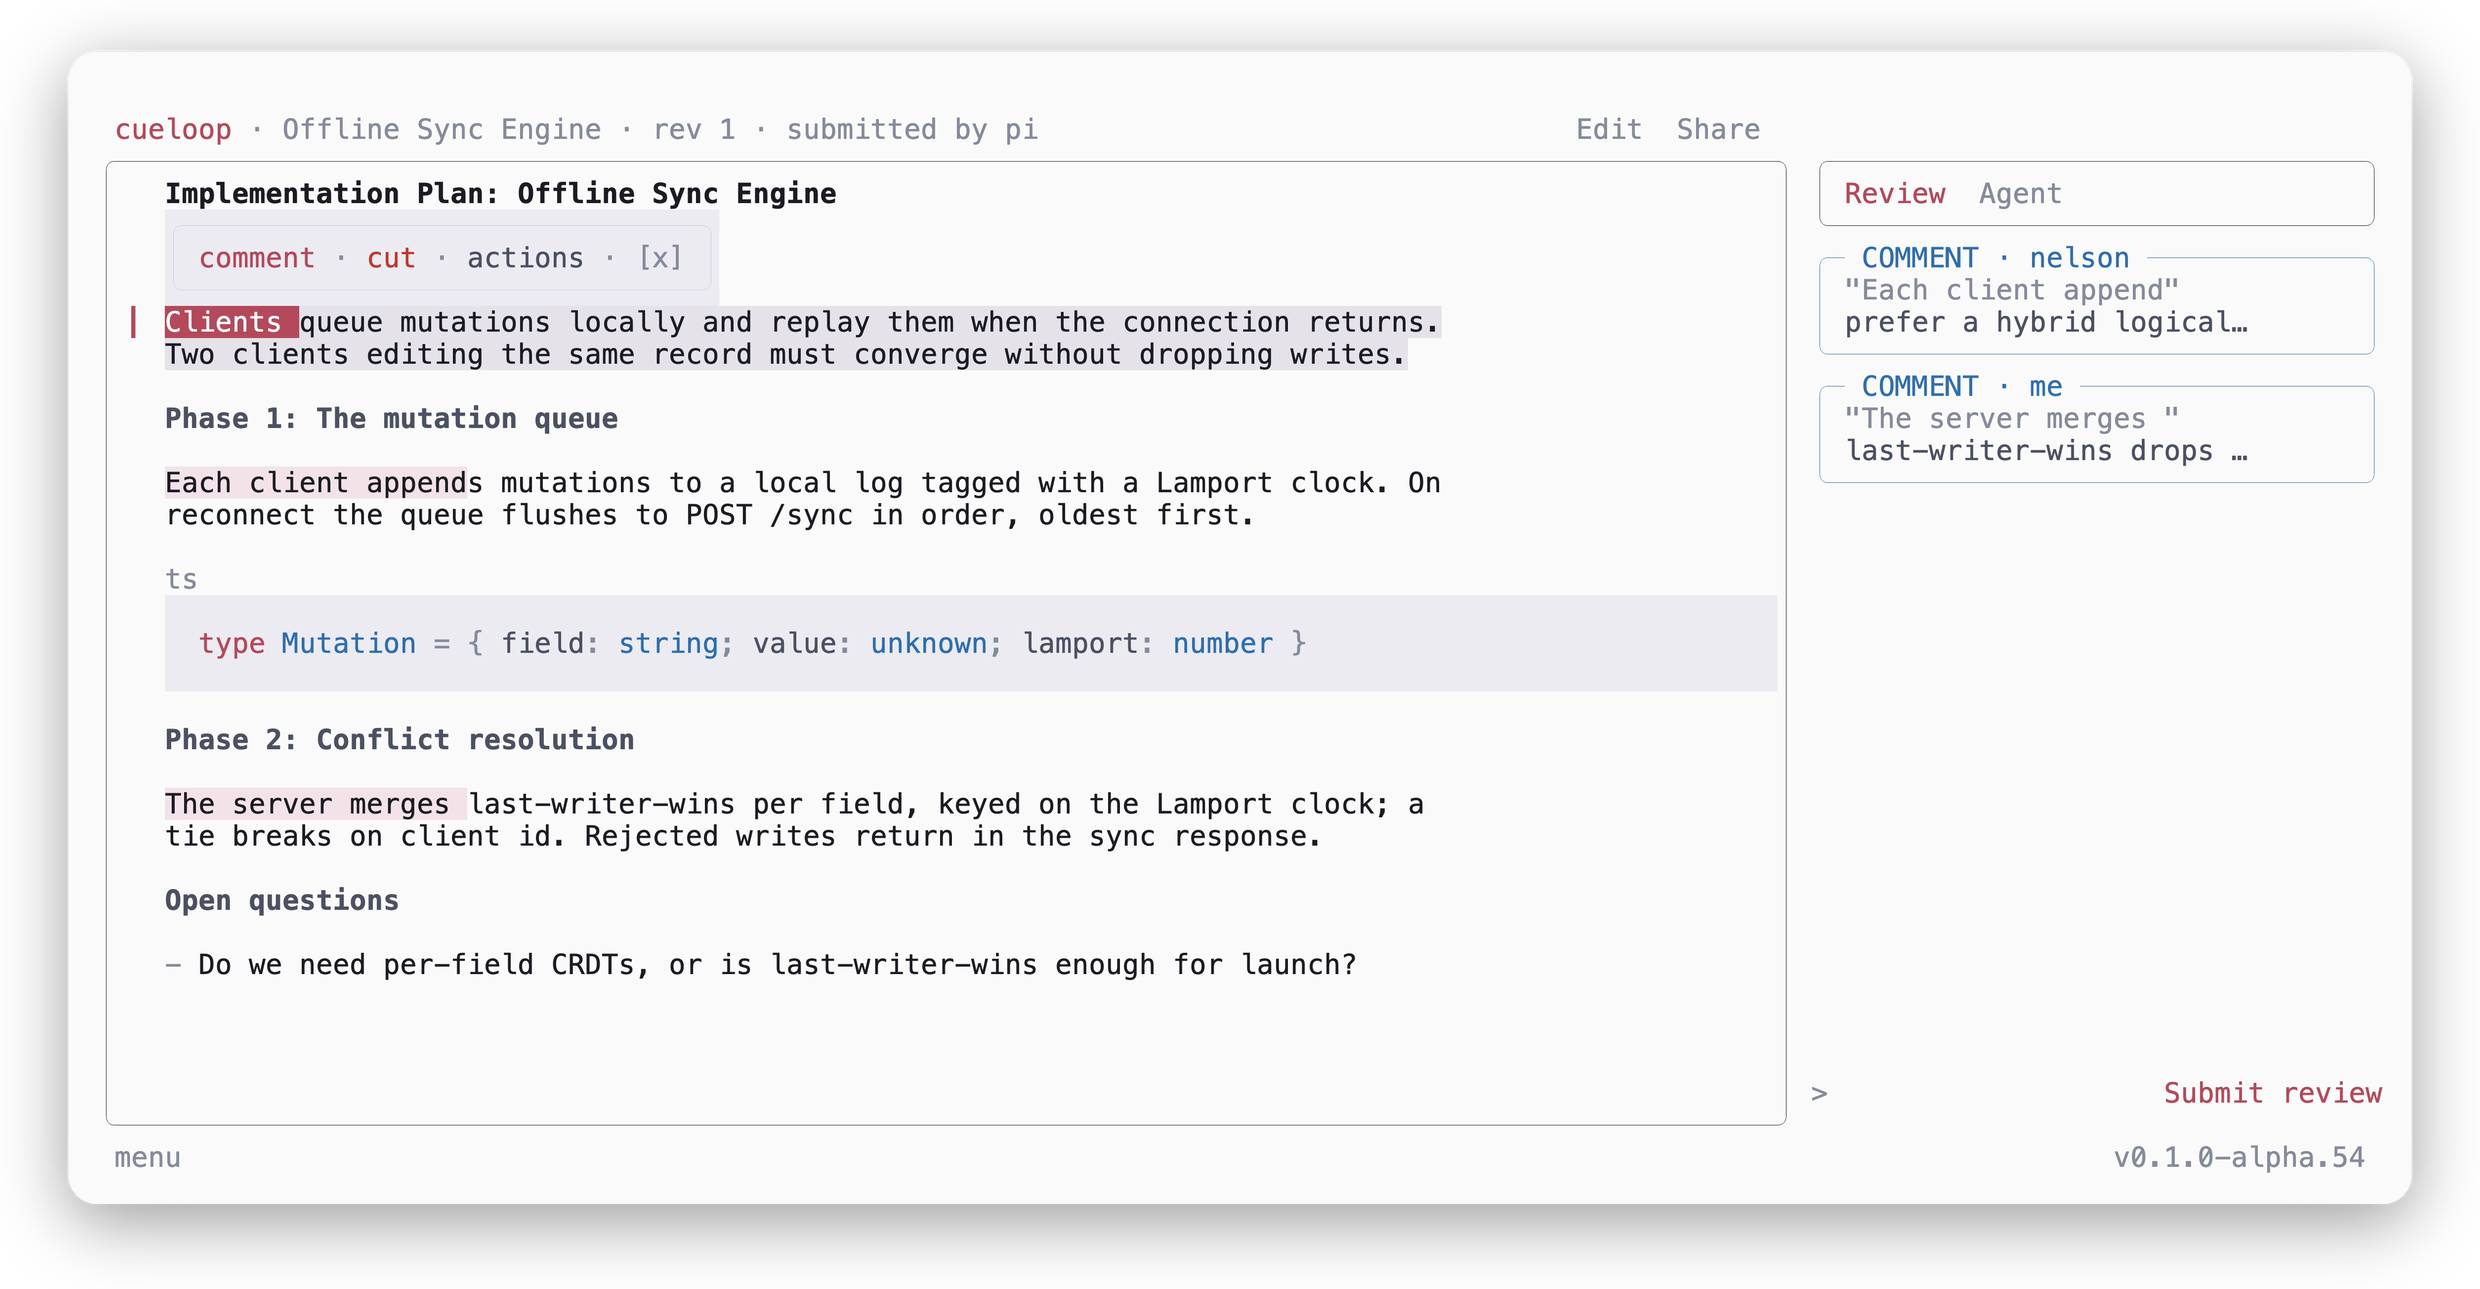
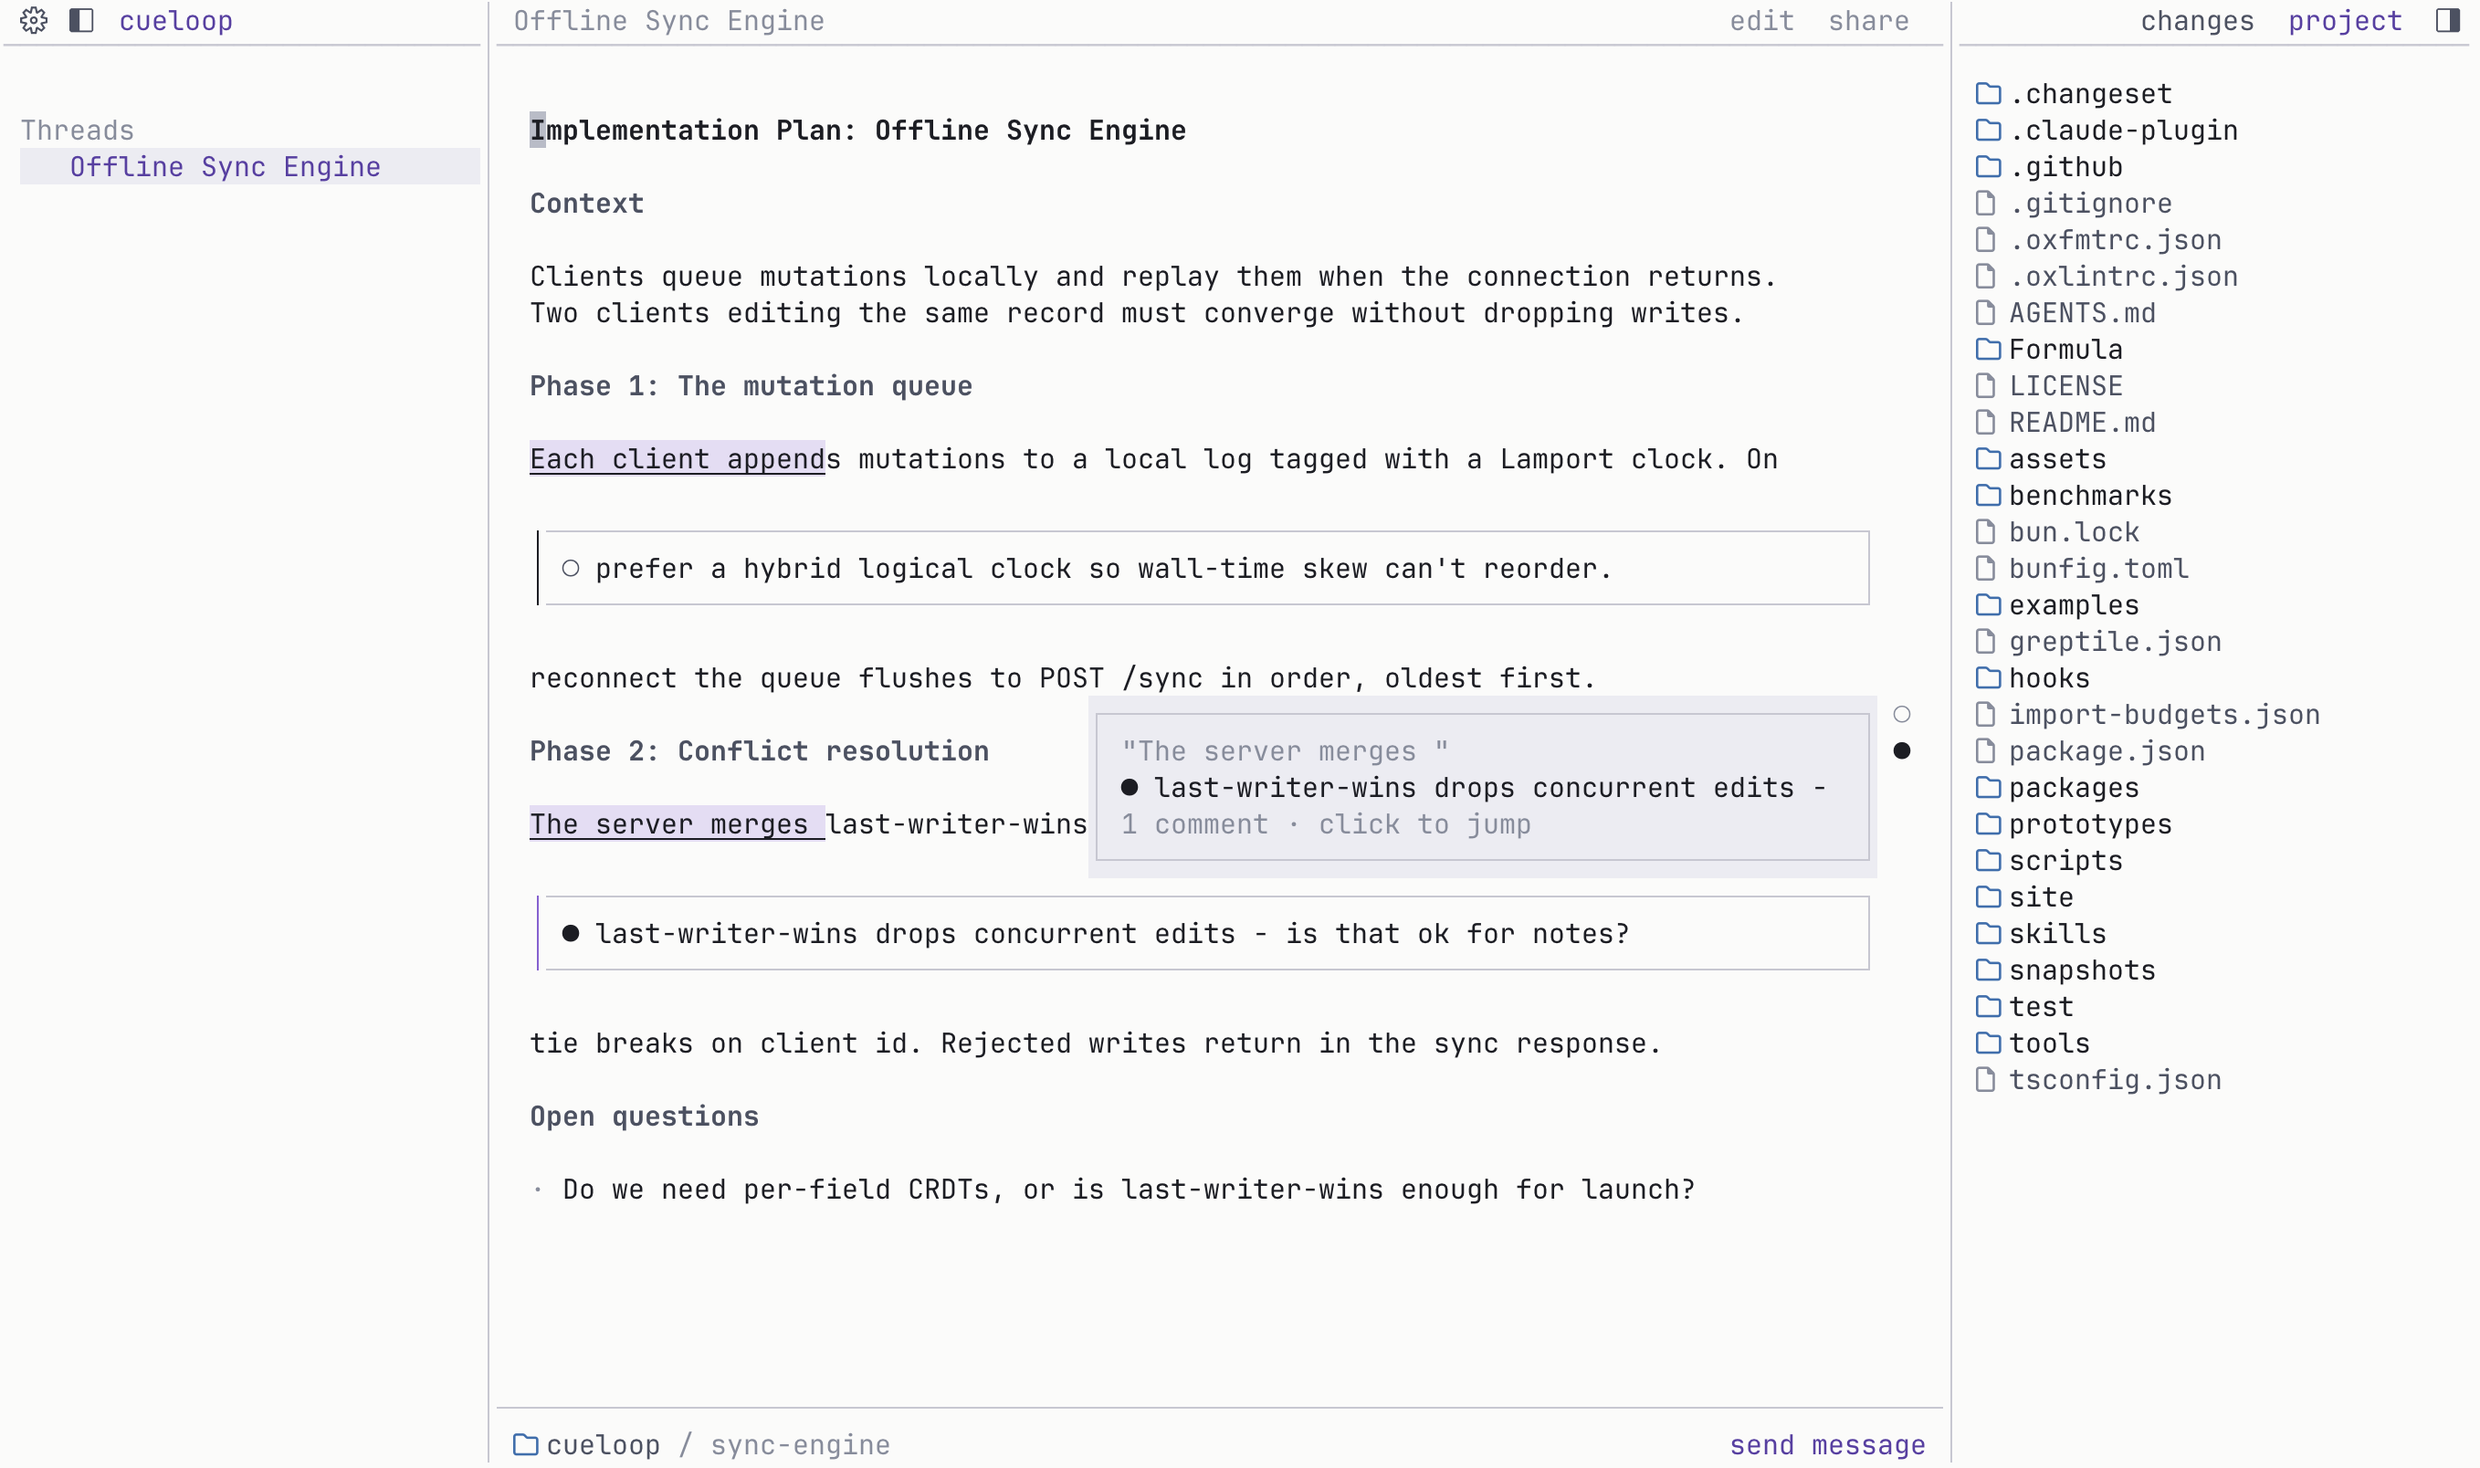
docs(site): refresh landing captures, decision copy, and unslopped pages
- re-encode the plan/diff/prototype landing shots to the current terminal UI, ship
  raw rectangular webp and move the corners and shadow to CSS on .shot
- 'decision' replaces 'verdict' across the docs and landing copy
- unslop the docs pages and add the changeset for the release

diff --git a/site/src/styles/global.css b/site/src/styles/global.css
@@ -1036,14 +1036,20 @@ pre {
   --m: 12px;
 }
 
-/* Product snapshot images (plan / diff / prototype): the shadow + rounded
-   corners are baked into the transparent PNG, so the element only needs to
-   scale down responsively and never overflow its column on mobile. */
+/* Product snapshot images (plan / diff / prototype): raw rectangular captures.
+   The container rounds the corners and casts the shadow, so both are tunable
+   here without re-encoding the webp; the element scales down responsively and
+   never overflows its column on mobile. */
 .shot {
   display: block;
   width: 100%;
   height: auto;
   max-width: 100%;
+  border-radius: 8px;
+  box-shadow: 0 28px 70px -30px rgba(0, 0, 0, 0.6);
+}
+html[data-theme="light"] .shot {
+  box-shadow: 0 24px 60px -30px rgba(20, 18, 12, 0.3);
 }
 
 /* One capture per theme: show the variant that matches the active theme. The

diff --git a/.changeset/prototype-text-review.md b/.changeset/prototype-text-review.md
@@ -1,0 +1,9 @@
+---
+"cueloop": minor
+---
+
+Make the `prototype` review a component design doc by default. `cueloop prototype <file.md>` opens a Markdown proposal - the component's prop API, how it composes from existing primitives, and the callstack it sits in - reviewed as text, so annotations anchor to lines the same way a plan or diff does. The prototype skill prompts the agent to author those three sections.
+
+Rendering an HTML mockup as terminal pixels is now an opt-in experimental mode (`[experimental] prototype_pixels`); its renderer is code-split so none of the pixel/browser path loads into the runtime unless the flag is on. A closed right region now moves its reopen toggle into the header instead of leaving an empty gutter, and the landing page shots are refreshed to the current terminal UI.
+
+Scrollbars are now overlays across every view: the bar appears while a surface is scrolling and hides once it goes idle, instead of sitting permanently on any overflowing pane. Reviewer decisions are no longer called "verdicts" in the copy.
